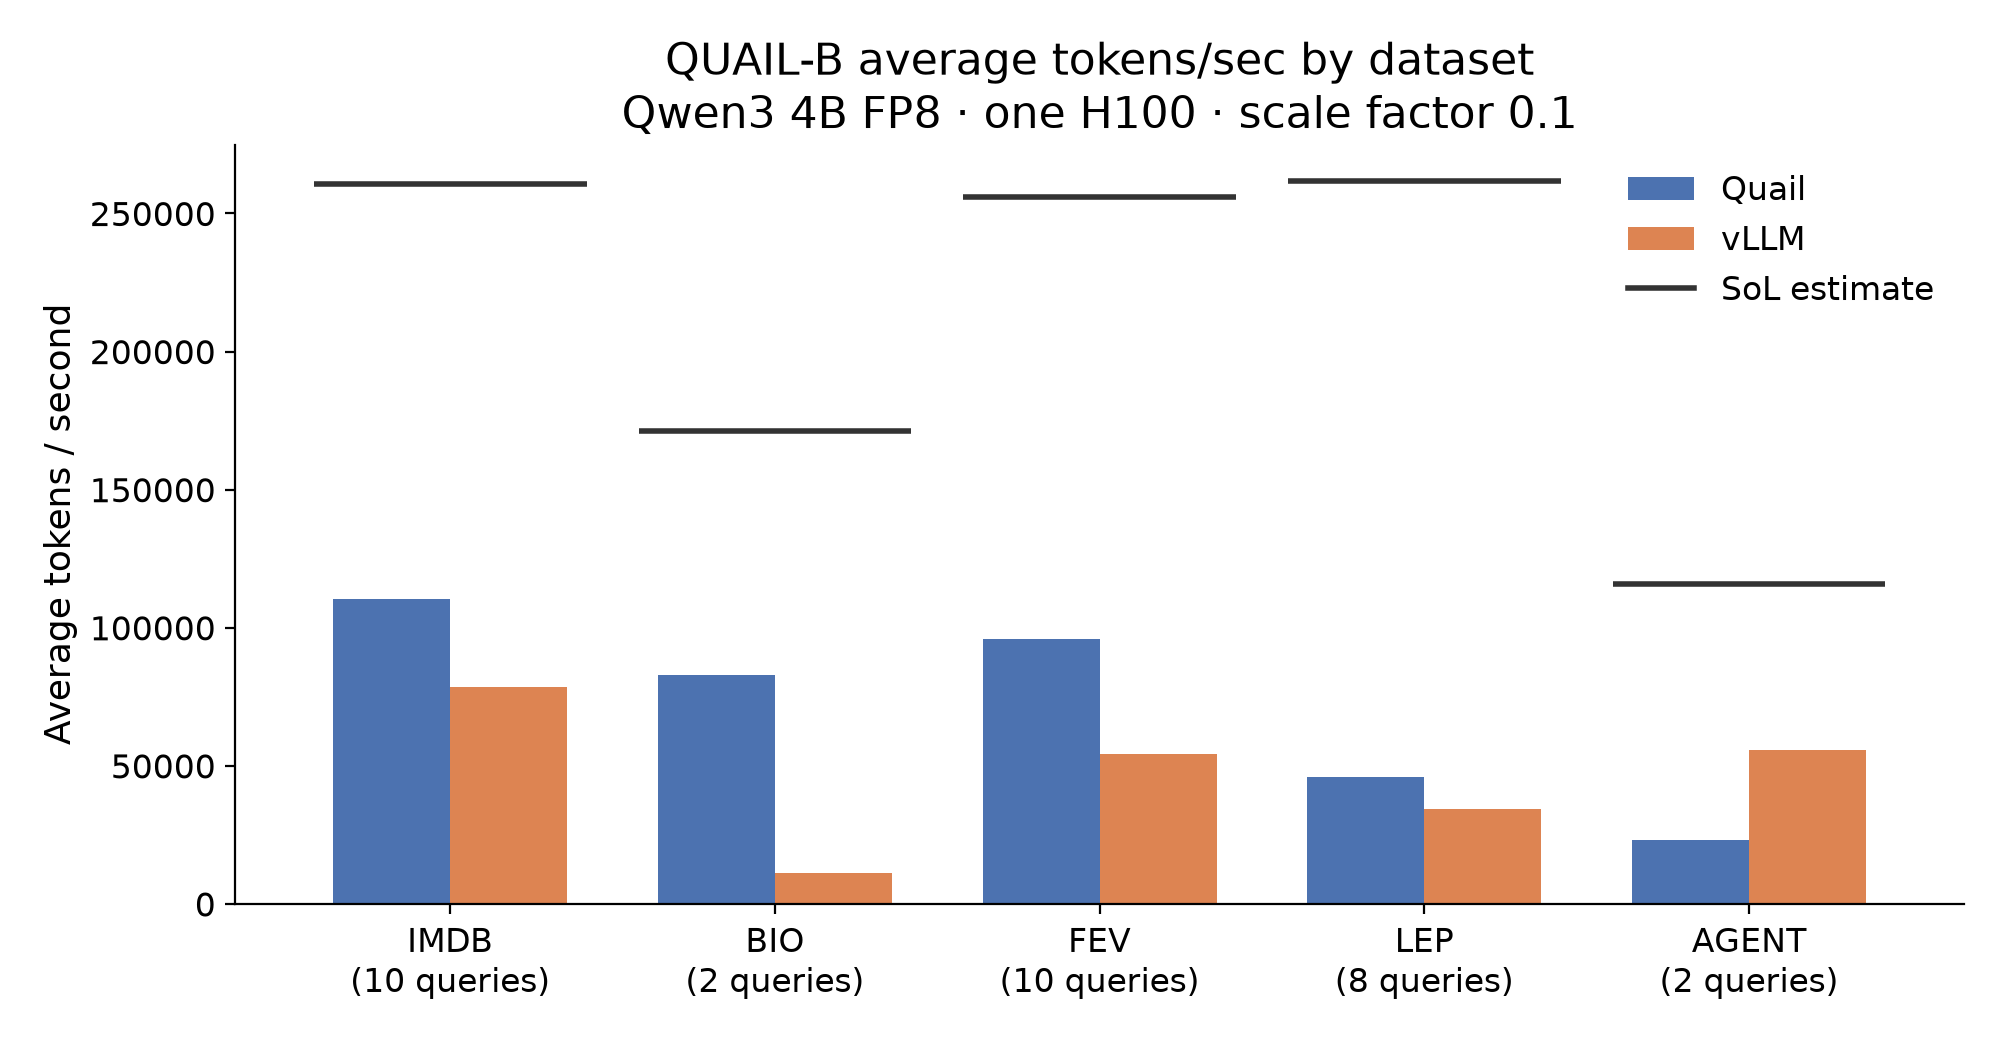
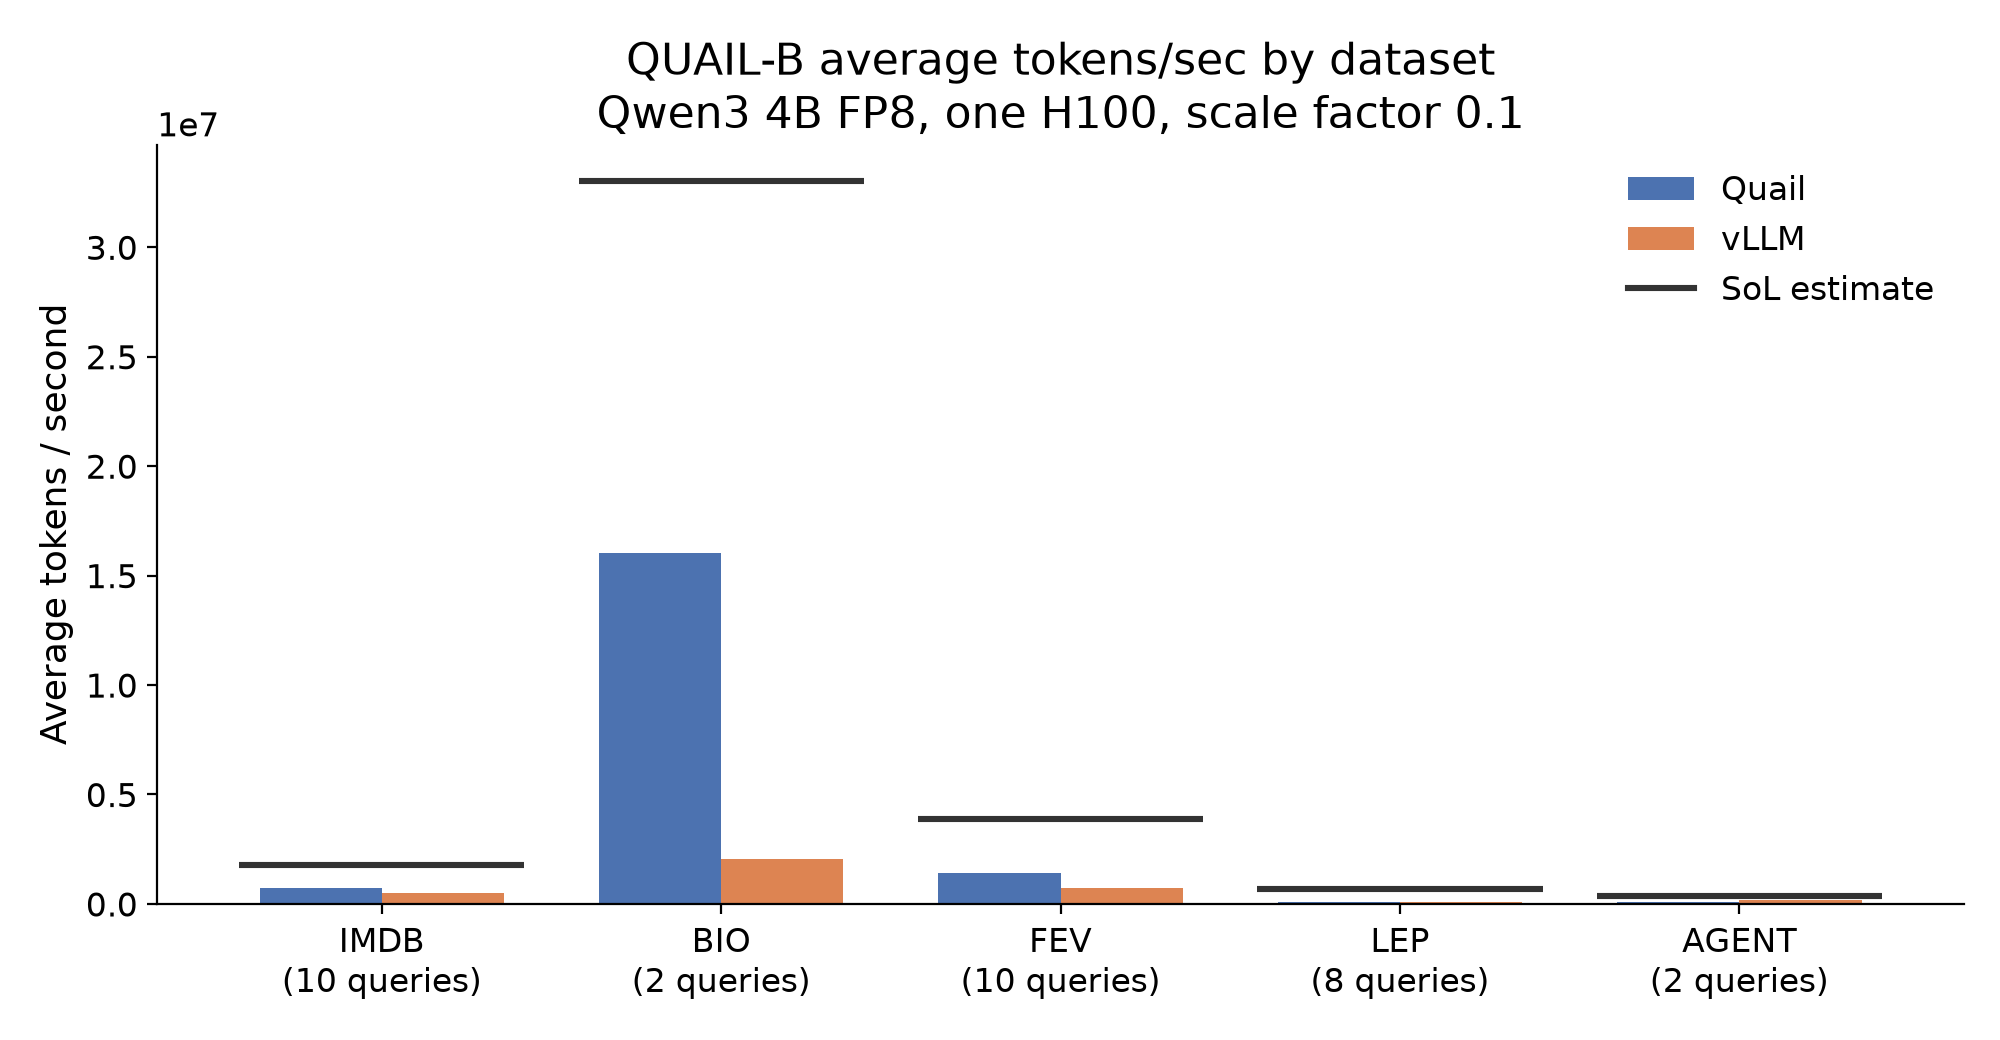
Use requested-token throughput in launch blog

diff --git a/blogs/intro/make_headline_tok_per_sec.py b/blogs/intro/make_headline_tok_per_sec.py
@@ -1,9 +1,12 @@
 """Build the QUAIL-B avg tokens/sec-by-dataset headline figure.
 
-Tok/sec uses one shared numerator per query for Quail, vLLM, and SoL:
-    sol[query].tokens / runtime_s
-SoL uses sol_s. That matches finishing the same estimated token work, and
-avoids per-method fresh_tokens (which differ with KV reuse, e.g. AGENT).
+Tok/sec follows Quail AGENTS.md / quail-b: requested input tokens per
+second. One shared numerator per query for Quail, vLLM, and SoL:
+    requested_tokens / runtime_s
+(SoL uses sol_s). Requested tokens are the full prompt lengths summed,
+counting shared prefixes every time whether or not KV was reused.
+quail-b exposes this as input_tokens / input_tokens_per_second.
+Do not use per-method fresh_tokens.
 
 SoL is drawn as a horizontal line over each dataset group (not a bar),
 matching the latency plot style in make_bio4_plots.py.
@@ -52,7 +55,10 @@ def collect_rows(workdir: Path):
     for query, quail in comparison["rows"]["quail"].items():
         vllm = comparison["rows"]["pipelined_vllm"][query]
         sol = comparison["sol"][query]
-        shared = float(sol["tokens"])
+        shared = float(
+            sol.get("requested_tokens")
+            or comparison["rows"]["quail"][query]["requested_tokens"]
+        )
         rows.append(
             {
                 "query": query,
@@ -89,7 +95,7 @@ def collect_rows(workdir: Path):
         vllm_q = _load(bio4_vllm_path)["queries"][0]
         sol_est = _load(bio4_sol_path)["estimate"]
         assert quail_q["id"] == "BIO-4" and vllm_q["id"] == "BIO-4"
-        shared = float(sol_est["tokens"])
+        shared = float(quail_q["metrics"]["input_tokens"])
         rows.append(
             {
                 "query": "BIO-4",
@@ -156,12 +162,14 @@ def plot_headline(rows, destination: Path):
         )
     for position, name in enumerate(datasets):
         sol = statistics.mean(by[name]["SoL"])
-        axis.hlines(
-            sol,
-            position - 0.42,
-            position + 0.42,
+        # Plain segment only — no center markers.
+        axis.plot(
+            [position - 0.42, position + 0.42],
+            [sol, sol],
             color=DARK,
-            linewidth=2.0,
+            linewidth=2.2,
+            solid_capstyle="butt",
+            marker="",
             zorder=3,
         )
 
@@ -175,13 +183,13 @@ def plot_headline(rows, destination: Path):
     axis.set_ylabel("Average tokens / second")
     axis.set_title(
         "QUAIL-B average tokens/sec by dataset\n"
-        "Qwen3 4B FP8 · one H100 · scale factor 0.1"
+        "Qwen3 4B FP8, one H100, scale factor 0.1"
     )
     axis.legend(
         handles=[
             Patch(facecolor=BLUE, label="Quail"),
             Patch(facecolor=ORANGE, label="vLLM"),
-            Line2D([0], [0], color=DARK, linewidth=2.0, label="SoL estimate"),
+            Line2D([0], [0], color=DARK, linewidth=2.2, marker="", label="SoL estimate"),
         ],
         frameon=False,
         loc="upper right",

diff --git a/blogs/intro/blogpost.md b/blogs/intro/blogpost.md
@@ -405,111 +405,111 @@ The table below reports all 32 queries with matching results at scale factor 0.1
 ::: {.metrics-table}
 | query | method | tok_per_sec | kv_regret | cost_usd |
 | --- | --- | ---: | ---: | ---: |
-| AGENT-1 | Quail | 23141.13 | 11886152 | 0.2614 |
-| AGENT-1 | vLLM | 55896.00 | 23928 | 0.1082 |
-| AGENT-1 | SoL | 115937.46 | 0 | 0.0522 |
-| AGENT-2 | Quail | 23213.57 | 11886152 | 0.2626 |
-| AGENT-2 | vLLM | 55716.76 | 23928 | 0.1094 |
-| AGENT-2 | SoL | 115844.40 | 0 | 0.0526 |
-| BIO-2 | Quail | 81578.32 | 2477 | 0.1398 |
-| BIO-2 | vLLM | 8122.44 | 154747 | 1.4038 |
-| BIO-2 | SoL | 167283.41 | 0 | 0.0682 |
-| FEV-1 | Quail | 112062.07 | 1359 | 0.0003 |
-| FEV-1 | vLLM | 79263.41 | 1359 | 0.0005 |
-| FEV-1 | SoL | 269033.05 | 0 | 0.0001 |
-| FEV-10 | Quail | 110489.29 | 2773 | 0.0018 |
-| FEV-10 | vLLM | 63569.18 | 4308 | 0.0032 |
-| FEV-10 | SoL | 260638.44 | 0 | 0.0008 |
-| FEV-2 | Quail | 110259.60 | 678 | 0.0324 |
-| FEV-2 | vLLM | 53902.66 | 106037 | 0.0662 |
-| FEV-2 | SoL | 252623.90 | 0 | 0.0141 |
-| FEV-3 | Quail | 91564.50 | 2605 | 0.0240 |
-| FEV-3 | vLLM | 43041.62 | 90822 | 0.0511 |
-| FEV-3 | SoL | 253084.05 | 0 | 0.0087 |
-| FEV-4 | Quail | 96087.37 | 2605 | 0.0053 |
-| FEV-4 | vLLM | 64728.31 | 23952 | 0.0079 |
-| FEV-4 | SoL | 255502.24 | 0 | 0.0020 |
-| FEV-5 | Quail | 86356.72 | 2776 | 0.0151 |
-| FEV-5 | vLLM | 42072.80 | 95455 | 0.0309 |
-| FEV-5 | SoL | 253426.21 | 0 | 0.0051 |
-| FEV-6 | Quail | 84769.38 | 2776 | 0.0045 |
-| FEV-6 | vLLM | 60979.75 | 15909 | 0.0062 |
-| FEV-6 | SoL | 256593.63 | 0 | 0.0015 |
-| FEV-7 | Quail | 96449.39 | 135139 | 0.0612 |
-| FEV-7 | vLLM | 48538.75 | 298043 | 0.1215 |
-| FEV-7 | SoL | 252486.08 | 0 | 0.0234 |
-| FEV-8 | Quail | 98254.67 | 3120800 | 0.0949 |
-| FEV-8 | vLLM | 49485.47 | 3525124 | 0.1885 |
-| FEV-8 | SoL | 252432.47 | 0 | 0.0370 |
-| FEV-9 | Quail | 73817.03 | 1461116 | 0.0429 |
-| FEV-9 | vLLM | 37676.53 | 1648151 | 0.0840 |
-| FEV-9 | SoL | 252812.42 | 0 | 0.0125 |
-| IMDB-1 | Quail | 120532.20 | 20349 | 0.0159 |
-| IMDB-1 | vLLM | 100431.91 | 20061 | 0.0191 |
-| IMDB-1 | SoL | 261625.23 | 0 | 0.0073 |
-| IMDB-10 | Quail | 85026.24 | 2132608 | 0.0532 |
-| IMDB-10 | vLLM | 51415.17 | 4360757 | 0.0880 |
-| IMDB-10 | SoL | 259396.32 | 0 | 0.0174 |
-| IMDB-2 | Quail | 113230.42 | 20349 | 0.0233 |
-| IMDB-2 | vLLM | 94805.88 | 40741 | 0.0278 |
-| IMDB-2 | SoL | 260608.09 | 0 | 0.0101 |
-| IMDB-3 | Quail | 110460.79 | 24729 | 0.0246 |
-| IMDB-3 | vLLM | 61814.97 | 1398847 | 0.0440 |
-| IMDB-3 | SoL | 260463.14 | 0 | 0.0104 |
-| IMDB-4 | Quail | 113304.79 | 21606 | 0.0190 |
-| IMDB-4 | vLLM | 74687.97 | 577154 | 0.0289 |
-| IMDB-4 | SoL | 260781.15 | 0 | 0.0083 |
-| IMDB-5 | Quail | 116716.25 | 21839 | 0.0182 |
-| IMDB-5 | vLLM | 76592.15 | 531994 | 0.0277 |
-| IMDB-5 | SoL | 260748.31 | 0 | 0.0081 |
-| IMDB-6 | Quail | 118717.35 | 20349 | 0.0164 |
-| IMDB-6 | vLLM | 97120.55 | 63473 | 0.0201 |
-| IMDB-6 | SoL | 261461.05 | 0 | 0.0075 |
-| IMDB-7 | Quail | 116915.19 | 21112 | 0.0170 |
-| IMDB-7 | vLLM | 84954.34 | 337625 | 0.0234 |
-| IMDB-7 | SoL | 261295.26 | 0 | 0.0076 |
-| IMDB-8 | Quail | 120012.97 | 91872 | 0.0286 |
-| IMDB-8 | vLLM | 79198.23 | 942159 | 0.0434 |
-| IMDB-8 | SoL | 259850.37 | 0 | 0.0132 |
-| IMDB-9 | Quail | 89290.75 | 2144348 | 0.0525 |
-| IMDB-9 | vLLM | 65200.54 | 3018927 | 0.0719 |
-| IMDB-9 | SoL | 259601.01 | 0 | 0.0181 |
-| LEP-1 | Quail | 118711.82 | 1702 | 0.0012 |
-| LEP-1 | vLLM | 94625.36 | 1622 | 0.0015 |
-| LEP-1 | SoL | 264458.89 | 0 | 0.0005 |
-| LEP-2 | Quail | 114784.33 | 1702 | 0.1446 |
-| LEP-2 | vLLM | 94828.11 | 87430 | 0.1750 |
-| LEP-2 | SoL | 259917.06 | 0 | 0.0639 |
-| LEP-3 | Quail | 6160.08 | 2058 | 0.1036 |
-| LEP-3 | vLLM | 4803.47 | 165313 | 0.1328 |
-| LEP-3 | SoL | 256780.67 | 0 | 0.0025 |
-| LEP-4 | Quail | 7724.40 | 1852 | 0.0443 |
-| LEP-4 | vLLM | 6502.63 | 49540 | 0.0526 |
-| LEP-4 | SoL | 259005.21 | 0 | 0.0013 |
-| LEP-5 | Quail | 5000.19 | 1794 | 0.0286 |
-| LEP-5 | vLLM | 3713.08 | 35327 | 0.0386 |
-| LEP-5 | SoL | 264419.12 | 0 | 0.0005 |
-| LEP-6 | Quail | 12723.36 | 1732 | 0.0111 |
-| LEP-6 | vLLM | 8894.86 | 10758 | 0.0158 |
-| LEP-6 | SoL | 264485.95 | 0 | 0.0005 |
-| LEP-7 | Quail | 8166.18 | 3420 | 0.0434 |
-| LEP-7 | vLLM | 6768.56 | 51004 | 0.0524 |
-| LEP-7 | SoL | 260859.95 | 0 | 0.0014 |
-| LEP-8 | Quail | 95520.15 | 1702 | 0.0015 |
-| LEP-8 | vLLM | 55650.87 | 6065 | 0.0025 |
-| LEP-8 | SoL | 264485.95 | 0 | 0.0005 |
-| BIO-4 | Quail | 84341.46 | 624144 | 0.0797 |
-| BIO-4 | vLLM | 14214.79 | 3907993 | 0.4728 |
-| BIO-4 | SoL | 175436.51 | 0 | 0.0383 |
+| AGENT-1 | Quail | 73124.95 | 11886152 | 0.2614 |
+| AGENT-1 | vLLM | 176628.88 | 23928 | 0.1082 |
+| AGENT-1 | SoL | 366357.25 | 0 | 0.0522 |
+| AGENT-2 | Quail | 72969.32 | 11886152 | 0.2626 |
+| AGENT-2 | vLLM | 175139.57 | 23928 | 0.1094 |
+| AGENT-2 | SoL | 364144.27 | 0 | 0.0526 |
+| BIO-2 | Quail | 18280145.54 | 2477 | 0.1398 |
+| BIO-2 | vLLM | 1820083.72 | 154747 | 1.4038 |
+| BIO-2 | SoL | 37485021.13 | 0 | 0.0682 |
+| FEV-1 | Quail | 114934.48 | 1359 | 0.0003 |
+| FEV-1 | vLLM | 81295.12 | 1359 | 0.0005 |
+| FEV-1 | SoL | 275929.00 | 0 | 0.0001 |
+| FEV-10 | Quail | 157457.74 | 2773 | 0.0018 |
+| FEV-10 | vLLM | 90592.12 | 4308 | 0.0032 |
+| FEV-10 | SoL | 371434.56 | 0 | 0.0008 |
+| FEV-2 | Quail | 2429051.89 | 678 | 0.0324 |
+| FEV-2 | vLLM | 1187491.64 | 106037 | 0.0662 |
+| FEV-2 | SoL | 5565379.99 | 0 | 0.0141 |
+| FEV-3 | Quail | 1927155.34 | 2605 | 0.0240 |
+| FEV-3 | vLLM | 905895.80 | 90822 | 0.0511 |
+| FEV-3 | SoL | 5326652.62 | 0 | 0.0087 |
+| FEV-4 | Quail | 1115893.58 | 2605 | 0.0053 |
+| FEV-4 | vLLM | 751710.74 | 23952 | 0.0079 |
+| FEV-4 | SoL | 2967229.86 | 0 | 0.0020 |
+| FEV-5 | Quail | 1710195.47 | 2776 | 0.0151 |
+| FEV-5 | vLLM | 833203.34 | 95455 | 0.0309 |
+| FEV-5 | SoL | 5018814.70 | 0 | 0.0051 |
+| FEV-6 | Quail | 775403.46 | 2776 | 0.0045 |
+| FEV-6 | vLLM | 557794.67 | 15909 | 0.0062 |
+| FEV-6 | SoL | 2347116.17 | 0 | 0.0015 |
+| FEV-7 | Quail | 2174277.32 | 135139 | 0.0612 |
+| FEV-7 | vLLM | 1094218.43 | 298043 | 0.1215 |
+| FEV-7 | SoL | 5691842.82 | 0 | 0.0234 |
+| FEV-8 | Quail | 2228621.90 | 3120800 | 0.0949 |
+| FEV-8 | vLLM | 1122434.17 | 3525124 | 0.1885 |
+| FEV-8 | SoL | 5725697.73 | 0 | 0.0370 |
+| FEV-9 | Quail | 1592046.28 | 1461116 | 0.0429 |
+| FEV-9 | vLLM | 812587.42 | 1648151 | 0.0840 |
+| FEV-9 | SoL | 5452523.60 | 0 | 0.0125 |
+| IMDB-1 | Quail | 121830.54 | 20349 | 0.0159 |
+| IMDB-1 | vLLM | 101513.73 | 20061 | 0.0191 |
+| IMDB-1 | SoL | 264443.38 | 0 | 0.0073 |
+| IMDB-10 | Quail | 1182286.98 | 2132608 | 0.0532 |
+| IMDB-10 | vLLM | 714926.16 | 4360757 | 0.0880 |
+| IMDB-10 | SoL | 3606897.01 | 0 | 0.0174 |
+| IMDB-2 | Quail | 988009.25 | 20349 | 0.0233 |
+| IMDB-2 | vLLM | 827243.13 | 40741 | 0.0278 |
+| IMDB-2 | SoL | 2273975.42 | 0 | 0.0101 |
+| IMDB-3 | Quail | 849463.20 | 24729 | 0.0246 |
+| IMDB-3 | vLLM | 475368.18 | 1398847 | 0.0440 |
+| IMDB-3 | SoL | 2003008.14 | 0 | 0.0104 |
+| IMDB-4 | Quail | 445828.31 | 21606 | 0.0190 |
+| IMDB-4 | vLLM | 293879.97 | 577154 | 0.0289 |
+| IMDB-4 | SoL | 1026113.86 | 0 | 0.0083 |
+| IMDB-5 | Quail | 393738.79 | 21839 | 0.0182 |
+| IMDB-5 | vLLM | 258381.32 | 531994 | 0.0277 |
+| IMDB-5 | SoL | 879626.62 | 0 | 0.0081 |
+| IMDB-6 | Quail | 151586.07 | 20349 | 0.0164 |
+| IMDB-6 | vLLM | 124009.86 | 63473 | 0.0201 |
+| IMDB-6 | SoL | 333850.55 | 0 | 0.0075 |
+| IMDB-7 | Quail | 169817.00 | 21112 | 0.0170 |
+| IMDB-7 | vLLM | 123394.50 | 337625 | 0.0234 |
+| IMDB-7 | SoL | 379526.20 | 0 | 0.0076 |
+| IMDB-8 | Quail | 1465971.18 | 91872 | 0.0286 |
+| IMDB-8 | vLLM | 967414.76 | 942159 | 0.0434 |
+| IMDB-8 | SoL | 3174099.85 | 0 | 0.0132 |
+| IMDB-9 | Quail | 1285940.17 | 2144348 | 0.0525 |
+| IMDB-9 | vLLM | 938999.72 | 3018927 | 0.0719 |
+| IMDB-9 | SoL | 3738700.60 | 0 | 0.0181 |
+| LEP-1 | Quail | 119951.82 | 1702 | 0.0012 |
+| LEP-1 | vLLM | 95613.77 | 1622 | 0.0015 |
+| LEP-1 | SoL | 267221.28 | 0 | 0.0005 |
+| LEP-2 | Quail | 520246.72 | 1702 | 0.1446 |
+| LEP-2 | vLLM | 429797.44 | 87430 | 0.1750 |
+| LEP-2 | SoL | 1178044.06 | 0 | 0.0639 |
+| LEP-3 | Quail | 32359.15 | 2058 | 0.1036 |
+| LEP-3 | vLLM | 25232.80 | 165313 | 0.1328 |
+| LEP-3 | SoL | 1348878.62 | 0 | 0.0025 |
+| LEP-4 | Quail | 31448.77 | 1852 | 0.0443 |
+| LEP-4 | vLLM | 26474.53 | 49540 | 0.0526 |
+| LEP-4 | SoL | 1054502.31 | 0 | 0.0013 |
+| LEP-5 | Quail | 5688.60 | 1794 | 0.0286 |
+| LEP-5 | vLLM | 4224.29 | 35327 | 0.0386 |
+| LEP-5 | SoL | 300823.31 | 0 | 0.0005 |
+| LEP-6 | Quail | 13549.90 | 1732 | 0.0111 |
+| LEP-6 | vLLM | 9472.69 | 10758 | 0.0158 |
+| LEP-6 | SoL | 281667.61 | 0 | 0.0005 |
+| LEP-7 | Quail | 28188.78 | 3420 | 0.0434 |
+| LEP-7 | vLLM | 23364.36 | 51004 | 0.0524 |
+| LEP-7 | SoL | 900460.88 | 0 | 0.0014 |
+| LEP-8 | Quail | 101725.37 | 1702 | 0.0015 |
+| LEP-8 | vLLM | 59266.09 | 6065 | 0.0025 |
+| LEP-8 | SoL | 281667.61 | 0 | 0.0005 |
+| BIO-4 | Quail | 13739453.85 | 624144 | 0.0797 |
+| BIO-4 | vLLM | 2315627.52 | 3907993 | 0.4728 |
+| BIO-4 | SoL | 28579085.47 | 0 | 0.0383 |
 :::
 
 ::: {.figure-block .wide-figure}
-[![Average input token throughput by dataset for Quail, vLLM, and SoL.](figures/quailb_tok_per_sec.png){width=100%}](figures/quailb_tok_per_sec.pdf)
+[![Average requested input token throughput by dataset for Quail, vLLM, and SoL.](figures/quailb_tok_per_sec.png){width=100%}](figures/quailb_tok_per_sec.pdf)
 
-*Figure 6. Average input tokens per second by dataset at scale factor 0.1, using Qwen3 4B FP8 on one H100. Bars show Quail and vLLM, while horizontal lines show SoL estimates. Dataset labels show the number of queries. BIO contains BIO-2 and BIO-4. BIO-1 and BIO-3 are missing because their old-filter runs have not been remade.*
+*Figure 6. Average requested input tokens per second by dataset at scale factor 0.1, using Qwen3 4B FP8 on one H100. Bars show Quail and vLLM, while horizontal lines show SoL estimates. Dataset labels show the number of queries. BIO contains BIO-2 and BIO-4. BIO-1 and BIO-3 are missing because their old-filter runs have not been remade.*
 :::
 
-For every method, throughput divides the same SoL estimate of token work by that method's runtime. The throughput figure is the headline comparison. Under this definition, vLLM is ahead on AGENT. The latency figure below keeps the per-query detail.
+For every method, throughput is the total requested input tokens divided by runtime. SoL uses the same requested-token total and its estimated runtime. The throughput figure is the headline comparison. Under this definition, vLLM is ahead on AGENT. The latency figure below keeps the per-query detail.
 
 ::: {.figure-block .wide-figure}
 [![Query latency for Quail, the vLLM baseline, and SoL estimates across the 31 default QUAIL-B queries. BIO-1 and BIO-3 are marked as not measured.](figures/quailb_latency.png){width=100%}](figures/quailb_latency.pdf)
